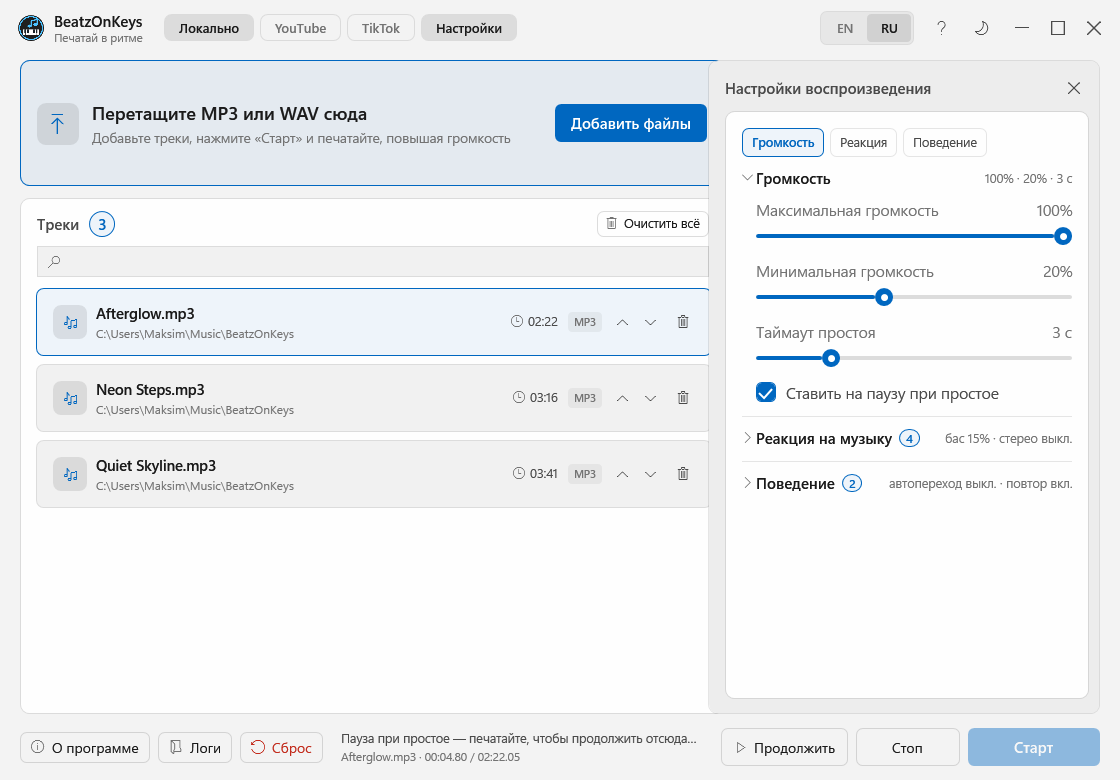
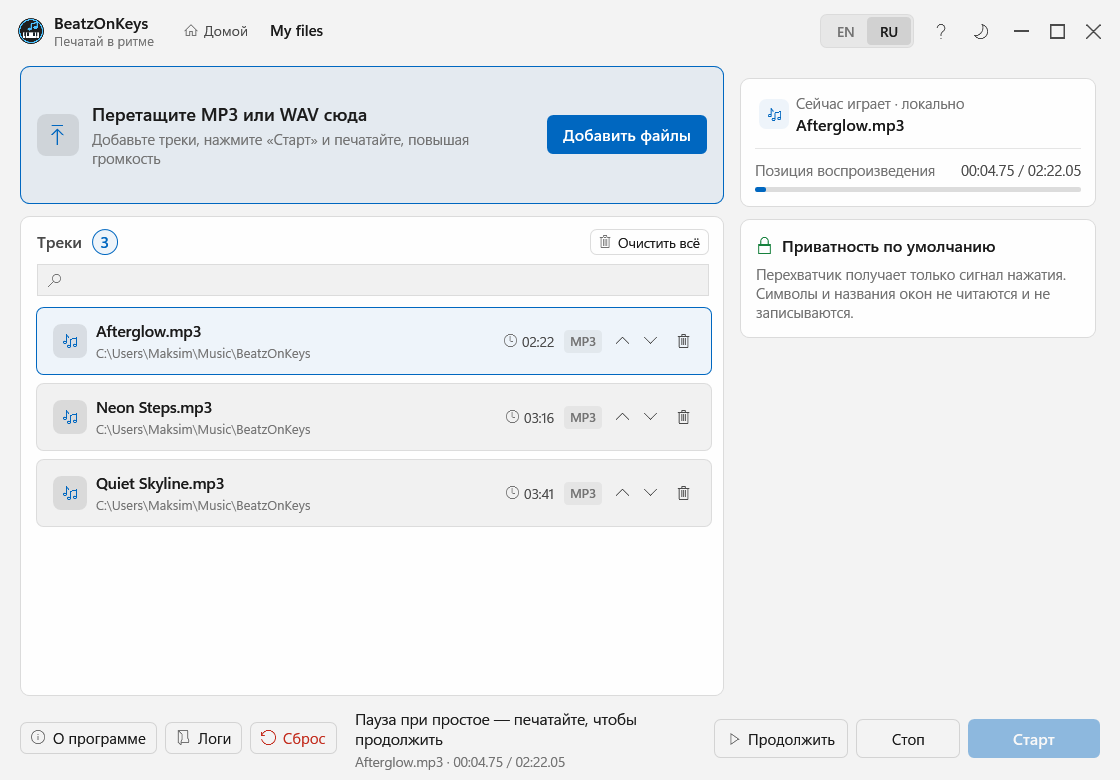
Release 1.5.0.0
BeatzOnKeys is a focus player now, and the code matches the description.

- A start screen replaces the tab strip: one question instead of four tabs,
  a tile per source, a focus tile, and settings as a visit. The greeting follows
  the time of day, and every section carries one way home.
- Focus mode removes the lists, caches, counters, advice plates and settings.
  The queue never runs dry there, and no preference is written: leaving hands
  the switches back. The way out sits under the card.
- Nothing playing means nothing claimed. The card, the source line, the timers
  and the progress bar all ask whether sound is coming out; a stopped app shows
  00:00.00 / 00:00.00 at zero progress.
- A finished row carries no "Ready" badge and no word underneath: the badge
  appears only for work in progress and for failures.
- The YouTube section is one column. The inner tabs are gone, the duplicate hint
  under the field is gone, the cache path moved to a tooltip, and the provider
  advice plate moved to the guide where it already lived.
- The type scale was raised across every window: nothing below 12.5 px, body
  15-15.5, headings 16-17, and the footer status line is body text that wraps
  instead of being cut.
- Windows balloons became windows, and the informational ones are non-modal:
  a modal notice at startup stopped the app from finishing its own startup.
- AGENTS.md records the positioning so a future agent does not roll it back.
[…]

diff --git a/BeatzOnKeys.Tests/UpdateServiceTests.cs b/BeatzOnKeys.Tests/UpdateServiceTests.cs
@@ -16,11 +16,12 @@ internal static class UpdateServiceTests
     {
         var assemblyVersion = AssertEx.NotNull(typeof(UpdateService).Assembly.GetName().Version);
         AssertEx.Equal(1, assemblyVersion.Major);
-        AssertEx.Equal(4, assemblyVersion.Minor);
+        AssertEx.Equal(5, assemblyVersion.Minor);
         AssertEx.Equal(0, assemblyVersion.Build);
-        // The patch digit is the revision, so 1.4.0.9 keeps all four parts.
-        AssertEx.Equal(9, assemblyVersion.Revision);
-        AssertEx.Equal("1.4.0.9", UpdateService.CurrentVersion.Display);
+        // The patch digit is the revision, so 1.5.0.0 keeps all four parts.
+        AssertEx.Equal(0, assemblyVersion.Revision);
+        // Display drops a zero revision on purpose, so the four-part build reads as 1.5.0.
+        AssertEx.Equal("1.5.0", UpdateService.CurrentVersion.Display);
 
         var current = Version("1.1.1");
         var result = UpdateService.ParseRelease(ReleaseJson("v1.1.1"), current);

diff --git a/tools/AudioProbe/Program.cs b/tools/AudioProbe/Program.cs
@@ -210,7 +210,7 @@ static async Task<int> RunProbeAsync(string sourcePath, string reportPath)
     var passed = checks.All(check => check.Passed);
     var report = new
     {
-        passed, utc = DateTimeOffset.UtcNow, version = "1.4.0.9", source = Path.GetFileName(sourcePath),
+        passed, utc = DateTimeOffset.UtcNow, version = "1.5.0.0", source = Path.GetFileName(sourcePath),
         durationSeconds = duration.TotalSeconds, processId = Environment.ProcessId,
         capture = "Windows process-specific loopback (only this diagnostic process tree)",
         defaults = new { MinVolume = 0.2, MaxVolume = 1.0, IdleTimeout = 3, PauseOnIdle = true },

diff --git a/BeatzOnKeys.UI/AboutWindow.xaml.cs b/BeatzOnKeys.UI/AboutWindow.xaml.cs
@@ -59,7 +59,7 @@ public partial class AboutWindow : Window
                 return parsed.Display;
             }
 
-            return assembly.GetName().Version?.ToString(3) ?? "1.4.0.9";
+            return assembly.GetName().Version?.ToString(3) ?? "1.5.0.0";
         }
     }
 

diff --git a/release-notes/v1.5.0.0.md b/release-notes/v1.5.0.0.md
@@ -1,0 +1,119 @@
+## English
+
+1.5 is a repositioning release with the code to match it. BeatzOnKeys is a focus player: it removes the decisions that stand between you and working, and the music follows your rhythm instead of asking you to manage it.
+
+### A focus player, not a player with a gimmick
+
+- **The app is described by the job it does**, in the README of both languages: a focus player for people whom music helps to concentrate, first of all people with ADHD. Value first, mechanics second.
+- **The app is a tool, not medical care.** It is not treatment or therapy, and it does not claim to be.
+- **It does not sell music and needs no subscription.** Your files, your links.
+
+### A start screen instead of tabs
+
+- **One question instead of four tabs**: where does the music come from today. A tile per source, a focus tile, and settings as a visit rather than a source.
+- **The greeting follows the time of day**: morning, afternoon, evening, night.
+- **Every section carries one way home.** A screen without an exit is a trap.
+- **The lower half of the hub is not decoration**: it offers the track Start would play, with one button.
+
+### Focus mode
+
+- **One button removes the lists, caches, counters, advice plates and settings.** What is left is what is playing plus the transport.
+- **The queue never runs dry there**: the next track plays and the last one loops. Only the controller is touched, never the saved preferences, so leaving the mode hands your switches back.
+- **The way out sits under the card**, where the eye already is, not in the title bar.
+
+### Honesty about sound
+
+- **Nothing playing means nothing claimed.** The card used to read "Now playing · local" with a file name frozen at 00:00, because the stopped player keeps its track. The name, the source line, the card and the timers now all ask whether sound is actually coming out.
+- **The timers reset**: a stopped app shows 00:00.00 / 00:00.00 at zero progress.
+
+### Rows stop shouting
+
+- **A finished row carries no "Ready" badge and no word underneath.** The badge appears only for work in progress and for failures, where it carries a message you cannot get anywhere else.
+- **The counters on the tiles use one measure**: a track count, and an empty tile says what can be done there instead of reading like a dead end.
+
+### The YouTube section is one column
+
+- **Search on top, found tracks under it, kept tracks under those.** The inner tabs are gone: they put the tabs back one floor below the screen that removed them.
+- **The duplicate hint under the field is gone**, and the cache path moved to a tooltip instead of three lines of a system path inside the card.
+- **The provider advice plate left the page.** The guide already carries that entry with the same button, and the loudest block on a focus player's search screen should not be advice about a third-party tool.
+
+### Larger type
+
+- **Nothing is smaller than 12.5 px**; body text sits at 15-15.5 and headings at 16-17, on a single ladder.
+- **The footer status line is body text in the primary colour**, and it wraps instead of being cut with an ellipsis.
+
+### Notifications became windows
+
+- **Hiding to the tray and the low-system-volume warning are shown as windows** instead of Windows balloons: a balloon is easy to miss and can be switched off entirely in the system settings.
+- **Informational notices are non-modal**: a modal window at startup stopped the app from finishing its own startup until it was dismissed.
+
+## Русский
+
+1.5 — релиз перепозиционирования, вместе с кодом под него. BeatzOnKeys это фокус-плеер: он убирает решения, которые стоят между тобой и работой, а музыка следует твоему ритму вместо того, чтобы требовать управления.
+
+### Фокус-плеер, а не плеер с фичей
+
+- **Приложение описано через задачу, которую решает**, в README обоих языков: фокус-плеер для тех, кому музыка помогает сосредоточиться, в первую очередь для людей с СДВГ. Сначала ценность, потом механика.
+- **Это инструмент, а не медицинская помощь.** Не лечение и не терапия, и приложение на это не претендует.
+- **Оно не продаёт музыку и не требует подписки.** Ваши файлы, ваши ссылки.
+
+### Стартовый экран вместо вкладок
+
+- **Один вопрос вместо четырёх вкладок**: откуда сегодня музыка. Плитка на каждый источник, плитка фокуса, и настройки как визит, а не источник.
+- **Приветствие следует времени суток**: утро, день, вечер, ночь.
+- **В каждом разделе есть путь домой.** Экран без выхода — ловушка.
+- **Нижняя половина хаба не украшение**: она предлагает трек, который включит «Старт», одной кнопкой.
+
+### Режим фокуса
+
+- **Одна кнопка убирает списки, кеши, счётчики, плашки и настройки.** Остаётся то, что играет, и транспорт.
+- **Очередь в нём не смолкает**: играет следующий трек, последний зацикливается. Трогается только контроллер, никогда сохранённые настройки, поэтому выход возвращает ваши переключатели.
+- **Выход расположен под карточкой**, где уже смотрит глаз, а не в заголовке.
+
+### Честность про звук
+
+- **Ничего не играет — значит ничего не заявлено.** Раньше карточка показывала «Сейчас играет · локально» с именем файла, застывшим на 00:00: остановленный плеер хранит трек. Теперь имя, строка источника, карточка и таймеры спрашивают, идёт ли звук на самом деле.
+- **Таймеры сбрасываются**: остановленное приложение показывает 00:00.00 / 00:00.00 при нулевом прогрессе.
+
+### Строки перестали кричать
+
+- **У готовой строки нет ни бейджа «Готово», ни слова под названием.** Бейдж появляется только во время работы и при ошибке, где несёт сообщение, которого больше нигде не получить.
+- **Счётчики на плитках используют одну меру**: число треков, а пустая плитка говорит, что там можно сделать, вместо того чтобы читаться тупиком.
+
+### Раздел YouTube — одна колонка
+
+- **Поиск сверху, найденное под ним, скачанное под ними.** Внутренние вкладки убраны: они возвращали вкладки этажом ниже экрана, который их отменил.
+- **Дубль подсказки под полем убран**, а путь кеша переехал в подсказку вместо трёх строк системного пути внутри карточки.
+- **Плашка про сторонний инструмент ушла со страницы.** В руководстве уже есть этот пункт с той же кнопкой, а самый громкий блок на экране поиска фокус-плеера не должен быть советом про чужую программу.
+
+### Крупнее шрифт
+
+- **Ничего мельче 12.5 px**; основной текст 15–15.5, заголовки 16–17, по единой шкале.
+- **Строка статуса в подвале стала основным текстом и основным цветом**, и переносится вместо обрезки многоточием.
+
+### Уведомления стали окнами
+
+- **Переход в трей и предупреждение о низкой системной громкости показываются окном** вместо системного шара: шар легко пропустить и его можно отключить целиком в настройках системы.
+- **Информационные окна немодальные**: модальное окно при старте не давало приложению завершить собственный запуск, пока его не закроют.
+
+## Assets
+
+Every file for this version is attached to the release:
+
+| File | What it is |
+|---|---|
+| [`BeatzOnKeys.exe`](https://github.com/MusicCat-61/BeatzOnKeys/releases/download/v1.5.0.0/BeatzOnKeys.exe) | Portable single-file build — **this is what the in-app updater downloads** |
+| [`BeatzOnKeys.exe.sha256`](https://github.com/MusicCat-61/BeatzOnKeys/releases/download/v1.5.0.0/BeatzOnKeys.exe.sha256) | SHA-256 of the executable |
+| [`BeatzOnKeys-win-x64.zip`](https://github.com/MusicCat-61/BeatzOnKeys/releases/download/v1.5.0.0/BeatzOnKeys-win-x64.zip) | The same build as a folder archive, for a manual install |
+| [`BeatzOnKeys-win-x64.zip.sha256`](https://github.com/MusicCat-61/BeatzOnKeys/releases/download/v1.5.0.0/BeatzOnKeys-win-x64.zip.sha256) | SHA-256 of the archive |
+
+## Ассеты
+
+Все файлы этой версии прикреплены к релизу:
+
+| Файл | Что это |
+|---|---|
+| [`BeatzOnKeys.exe`](https://github.com/MusicCat-61/BeatzOnKeys/releases/download/v1.5.0.0/BeatzOnKeys.exe) | Портативная сборка одним файлом — **именно её скачивает встроенный апдейтер** |
+| [`BeatzOnKeys.exe.sha256`](https://github.com/MusicCat-61/BeatzOnKeys/releases/download/v1.5.0.0/BeatzOnKeys.exe.sha256) | SHA-256 исполняемого файла |
+| [`BeatzOnKeys-win-x64.zip`](https://github.com/MusicCat-61/BeatzOnKeys/releases/download/v1.5.0.0/BeatzOnKeys-win-x64.zip) | Та же сборка папкой, для ручной установки |
+| [`BeatzOnKeys-win-x64.zip.sha256`](https://github.com/MusicCat-61/BeatzOnKeys/releases/download/v1.5.0.0/BeatzOnKeys-win-x64.zip.sha256) | SHA-256 архива |

diff --git a/AGENTS.md b/AGENTS.md
@@ -54,3 +54,29 @@
 - **Команда с `CanExecute` без `NotifyCanExecuteChanged` — мёртвая кнопка.** Крестик фильтра в YouTube и TikTok не нажимался: сеттер поля поднимал свойство, но WPF не переспрашивает `CanExecute` сам. Любая команда с условием обязана уведомлять о смене состояния, и у каждой кнопки-иконки должно быть утверждение в smoke.
 - **Замер вместо обещания.** Фраза «TikTok отдаёт embed без регионального отказа» прожила два релиза, потому что smoke работает на подставном сервисе и настоящей сети не касается. Внешний маршрут считается существующим только после живого прогона через настоящий код.
 - **«Не пусто» — не проверка.** Счётчик «Кеш TikTok» два релиза показывал `0 КБ` при непустой папке: getter подставлял ноль, когда число ещё не измеряли, а `TikTok.InitializeAsync()` не вызывался при старте вообще. Smoke это пропускал, потому что утверждение требовало лишь «метка не пустая». Проверять надо **значение**: сверять с тем, что реально на диске, и требовать, чтобы «неизвестно» отличалось от «ноль».
+
+## Позиционирование
+
+**BeatzOnKeys — фокус-плеер, который подстраивается под твой ритм.** Не «печать под музыку» и не «плеер с фичей громкости». Продукт для людей, которым музыка помогает работать, но мешает думать, — в первую очередь для СДВГ-аудитории.
+
+Этот угол **не откатывать**. Будущий агент, который переписывает README, заметки или тексты интерфейса, обязан держаться этих правил:
+
+1. **Сначала ценность, потом механика.** «Музыка, которая знает, когда ты работаешь» — и только затем таймауты, хуки и задержки в 50 мс.
+2. **Убирать решения, а не добавлять настройки.** Каждый экран должен снижать число выборов. Стартовый экран отвечает на один вопрос — откуда сегодня музыка. Фокус-режим убирает всё, кроме трека и транспорта.
+3. **Никакой геймификации и оценок себя.** Ни уровней, ни достижений, ни «сегодня 2 ч 40 мин в фокусе». СДВГ-человек получает оценки отовсюду; приложение не добавляет ещё одну.
+4. **Числа — только про музыку.** «Треков: 3» — да. «Сколько ты работал» — нет.
+5. **Инструмент, а не медицинская помощь.** Никогда не писать «лечит СДВГ», «терапия», «клинически доказано». Формулировка: помогает некоторым людям удерживать ритм работы.
+6. **Не продаём музыку и не требуем подписку.** Свои файлы и свои ссылки. Это обещание живёт в README обоих языков.
+
+### Что поддерживает угол
+
+| Элемент | Зачем он здесь |
+|---|---|
+| Стартовый экран с плитками | один вопрос вместо четырёх вкладок |
+| Приветствие по времени суток | приложение знает, что ты человек, а не сценарий |
+| Режим «Фокус» | убирает вкладки, кеши, счётчики, плашки и настройки |
+| «Не смолкать» в фокусе | тишина не наступает неожиданно |
+| Карточка «Продолжить» на хабе | одно действие, не требующее выбора |
+| Строка статуса крупным шрифтом | ответ на «что вообще происходит» |
+
+Если новая фича не поддерживает ни один из этих пунктов и не убирает решение — она, скорее всего, не нужна.

diff --git a/README.en.md b/README.en.md
@@ -4,9 +4,13 @@
 [![Download](https://img.shields.io/badge/download-portable%20win--x64-2ea44f?style=flat-square)](https://github.com/MusicCat-61/BeatzOnKeys/releases/latest)
 [![CI](https://github.com/MusicCat-61/BeatzOnKeys/actions/workflows/ci.yml/badge.svg?branch=main)](https://github.com/MusicCat-61/BeatzOnKeys/actions/workflows/ci.yml)
 [![License](https://img.shields.io/badge/license-MIT-blue?style=flat-square)](<LICENSE>)
-[![Version](https://img.shields.io/badge/version-1.4.0.9-4CC2FF?style=flat-square)](https://github.com/MusicCat-61/BeatzOnKeys/releases)
+[![Version](https://img.shields.io/badge/version-1.5.0.0-4CC2FF?style=flat-square)](https://github.com/MusicCat-61/BeatzOnKeys/releases)
 [![Platform](https://img.shields.io/badge/platform-Windows%2010%20%7C%2011-0078D6?style=flat-square)](#requirements)
 [![.NET](https://img.shields.io/badge/.NET-10-512BD4?style=flat-square)](https://dotnet.microsoft.com/download/dotnet/10.0)
+
+![BeatzOnKeys start screen](<assets/home-light-en.png>)
+
+*The start screen; [the My files section](<assets/preview-en.png>).*
 
 ![BeatzOnKeys English interface](<assets/preview-en.png>)
 
@@ -128,7 +132,7 @@ Choosing another track starts that track from its beginning.
 
 Only one copy can run at a time: launching it again restores the window of the running copy.
 
-No installer, administrator rights, or separate .NET runtime are required. **Upgrading from 1.0.x:** close the old app, download 1.4.0.9 manually, and replace the old folder rather than using the old in-app installer. Existing settings migrate automatically as described [above](#settings).
+No installer, administrator rights, or separate .NET runtime are required. **Upgrading from 1.0.x:** close the old app, download 1.5.0.0 manually, and replace the old folder rather than using the old in-app installer. Existing settings migrate automatically as described [above](#settings).
 
 ### Requirements
 
@@ -192,11 +196,13 @@ The title-bar `EN | RU` switch changes the language immediately; the sun/moon bu
 
 [About dialog](<assets/about-ru.png>) · [Light About dialog](<assets/about-light-ru.png>) · [Guide, English](<assets/guide-en.png>) · [Guide, Russian](<assets/guide-ru.png>)
 
+Focus mode: [just the player](<assets/focus-en.png>)
+
 YouTube source: [search with listening](<assets/youtube-search-ru.png>) · [downloaded tracks](<assets/youtube-downloaded-ru.png>) · [search in progress](<assets/youtube-searching-ru.png>)
 
 Settings sections: [Volume](<assets/section-volume.png>) · [Music reaction](<assets/section-reaction.png>) · [Behaviour](<assets/section-behavior.png>) · [all collapsed](<assets/section-collapsed.png>)
 
-TikTok source: [empty section](<assets/tiktok-empty-ru.png>) · [a downloaded clip](<assets/tiktok-track-ru.png>) · [a download with cancel](<assets/tiktok-cancel-ru.png>) · [the provider plate](<assets/tiktok-provider-ru.png>)
+TikTok source: [empty section](<assets/tiktok-empty-ru.png>) · [a downloaded clip](<assets/tiktok-track-ru.png>) · [a download with cancel](<assets/tiktok-cancel-ru.png>)
 
 Matching documentation is available in [English](<README.en.md>) and [Russian](<README.md>).
 
@@ -243,14 +249,14 @@ dotnet build BeatzOnKeys.sln -c Release
 dotnet run --project BeatzOnKeys.Tests -c Release
 ```
 
-Create the **1.4.0.9** portable self-contained folder in Windows **cmd**:
+Create the **1.5.0.0** portable self-contained folder in Windows **cmd**:
 
 ```bat
-set BOK_VERSION=1.4.0.9
+set BOK_VERSION=1.5.0.0
 publish.bat
 ```
 
-The publisher now defaults to `BOK_VERSION=1.4.0.9`; setting it explicitly makes the intended release version clear.
+The publisher now defaults to `BOK_VERSION=1.5.0.0`; setting it explicitly makes the intended release version clear.
 
 The publisher validates its `Build_Output` cleanup target, publishes `BeatzOnKeys.UI` self-contained for `win-x64`, and copies both READMEs, release notes, screenshots, the license, and third-party notices. It stops on any required publish/copy failure. The resulting `Build_Output` directory is the portable product.
 
